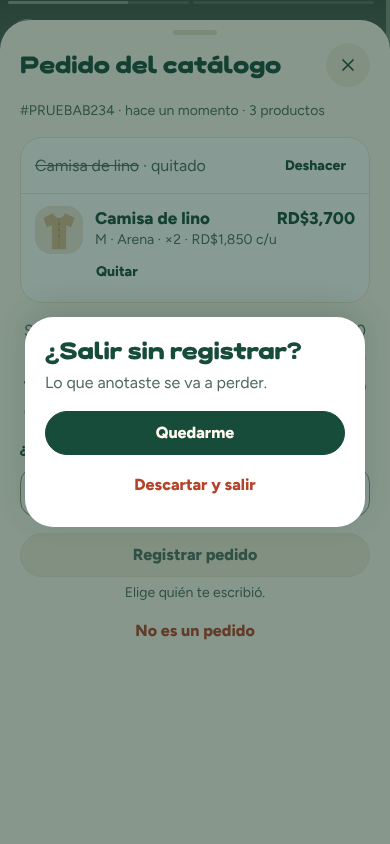
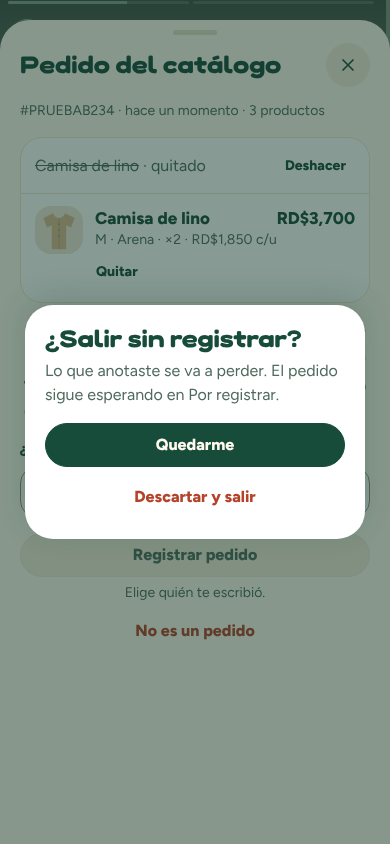
Ajustes del aviso al salir (#116)
Claude-Session: https://claude.ai/code/session_01TQV2YM132Z16xz593eS8cp

Changed region(s): [[0.0615, 0.3389, 0.9538, 0.6469], [0.9231, 0.5853, 0.9538, 0.6161]]

diff --git a/components/hoja.tsx b/components/hoja.tsx
@@ -262,7 +262,7 @@ function HojaMontada({
   const [textosAviso, setTextosAviso] = useState<TextosAviso>({});
   const avisar = useCallback((cambios: boolean, textos?: TextosAviso) => {
     avisoDeHijo.current = cambios;
-    if (cambios) textosDeHijo.current = textos ?? {};
+    textosDeHijo.current = cambios ? (textos ?? {}) : {};
   }, []);
   const miTurno = useRef(Symbol("hoja"));
   const entradaDeHistorial = useRef(false);

diff --git a/components/pedido-catalogo/registrar-solicitud.tsx b/components/pedido-catalogo/registrar-solicitud.tsx
@@ -68,7 +68,7 @@ export function HojaRegistrarSolicitud({
       altura="grande"
       avisarAlSalir={hayCambios}
       avisoTitulo="¿Salir sin registrar?"
-      avisoTexto="Lo que anotaste se va a perder."
+      avisoTexto="Lo que anotaste se va a perder. El pedido sigue esperando en Por registrar."
       alVolverInterno={() => {
         if (vista !== "cliente") return false;
         setVista("pedido");

diff --git a/docs/04-pantallas.md b/docs/04-pantallas.md
@@ -153,7 +153,7 @@ botón de cerrar redondo. Además:
   "Quedarme"; el foco entra al diálogo y no sale con Tab. Textos propios: crear producto suma «Las N fotos que subiste se van a
   descartar.» y «Se van a perder las N presentaciones y sus cantidades.» (solo lo que se pierde de verdad); editar producto,
   «¿Descartar los cambios?» / «Lo que cambiaste no se va a guardar.»; registrar un pedido, «¿Salir sin registrar?» / «Lo que anotaste
-  se va a perder.»; la hoja «Inventario» de crear producto no avisa (cerrarla conserva lo puesto). Props: `avisoTitulo`, `avisoTexto`,
+  se va a perder. El pedido sigue esperando en Por registrar.»; la hoja «Inventario» de crear producto no avisa (cerrarla conserva lo puesto). Props: `avisoTitulo`, `avisoTexto`,
   `avisoQuedarme`, `avisoDescartar`; el contenido puede dar textos con `useAvisarAlSalir(cambios, { titulo, texto })`. Guardar con éxito, cerrar desde el padre o cambiar de ruta nunca preguntan. Activo en: Registrar abono (monto o nota),
   + Pedido / venta pasada / Editar pedido (cualquier cambio respecto a como se abrió), Cliente nuevo (algún campo lleno), nota del
   cliente (texto cambiado), producto y promo (cambios respecto al original). No en hojas de solo lectura ni de selección.
